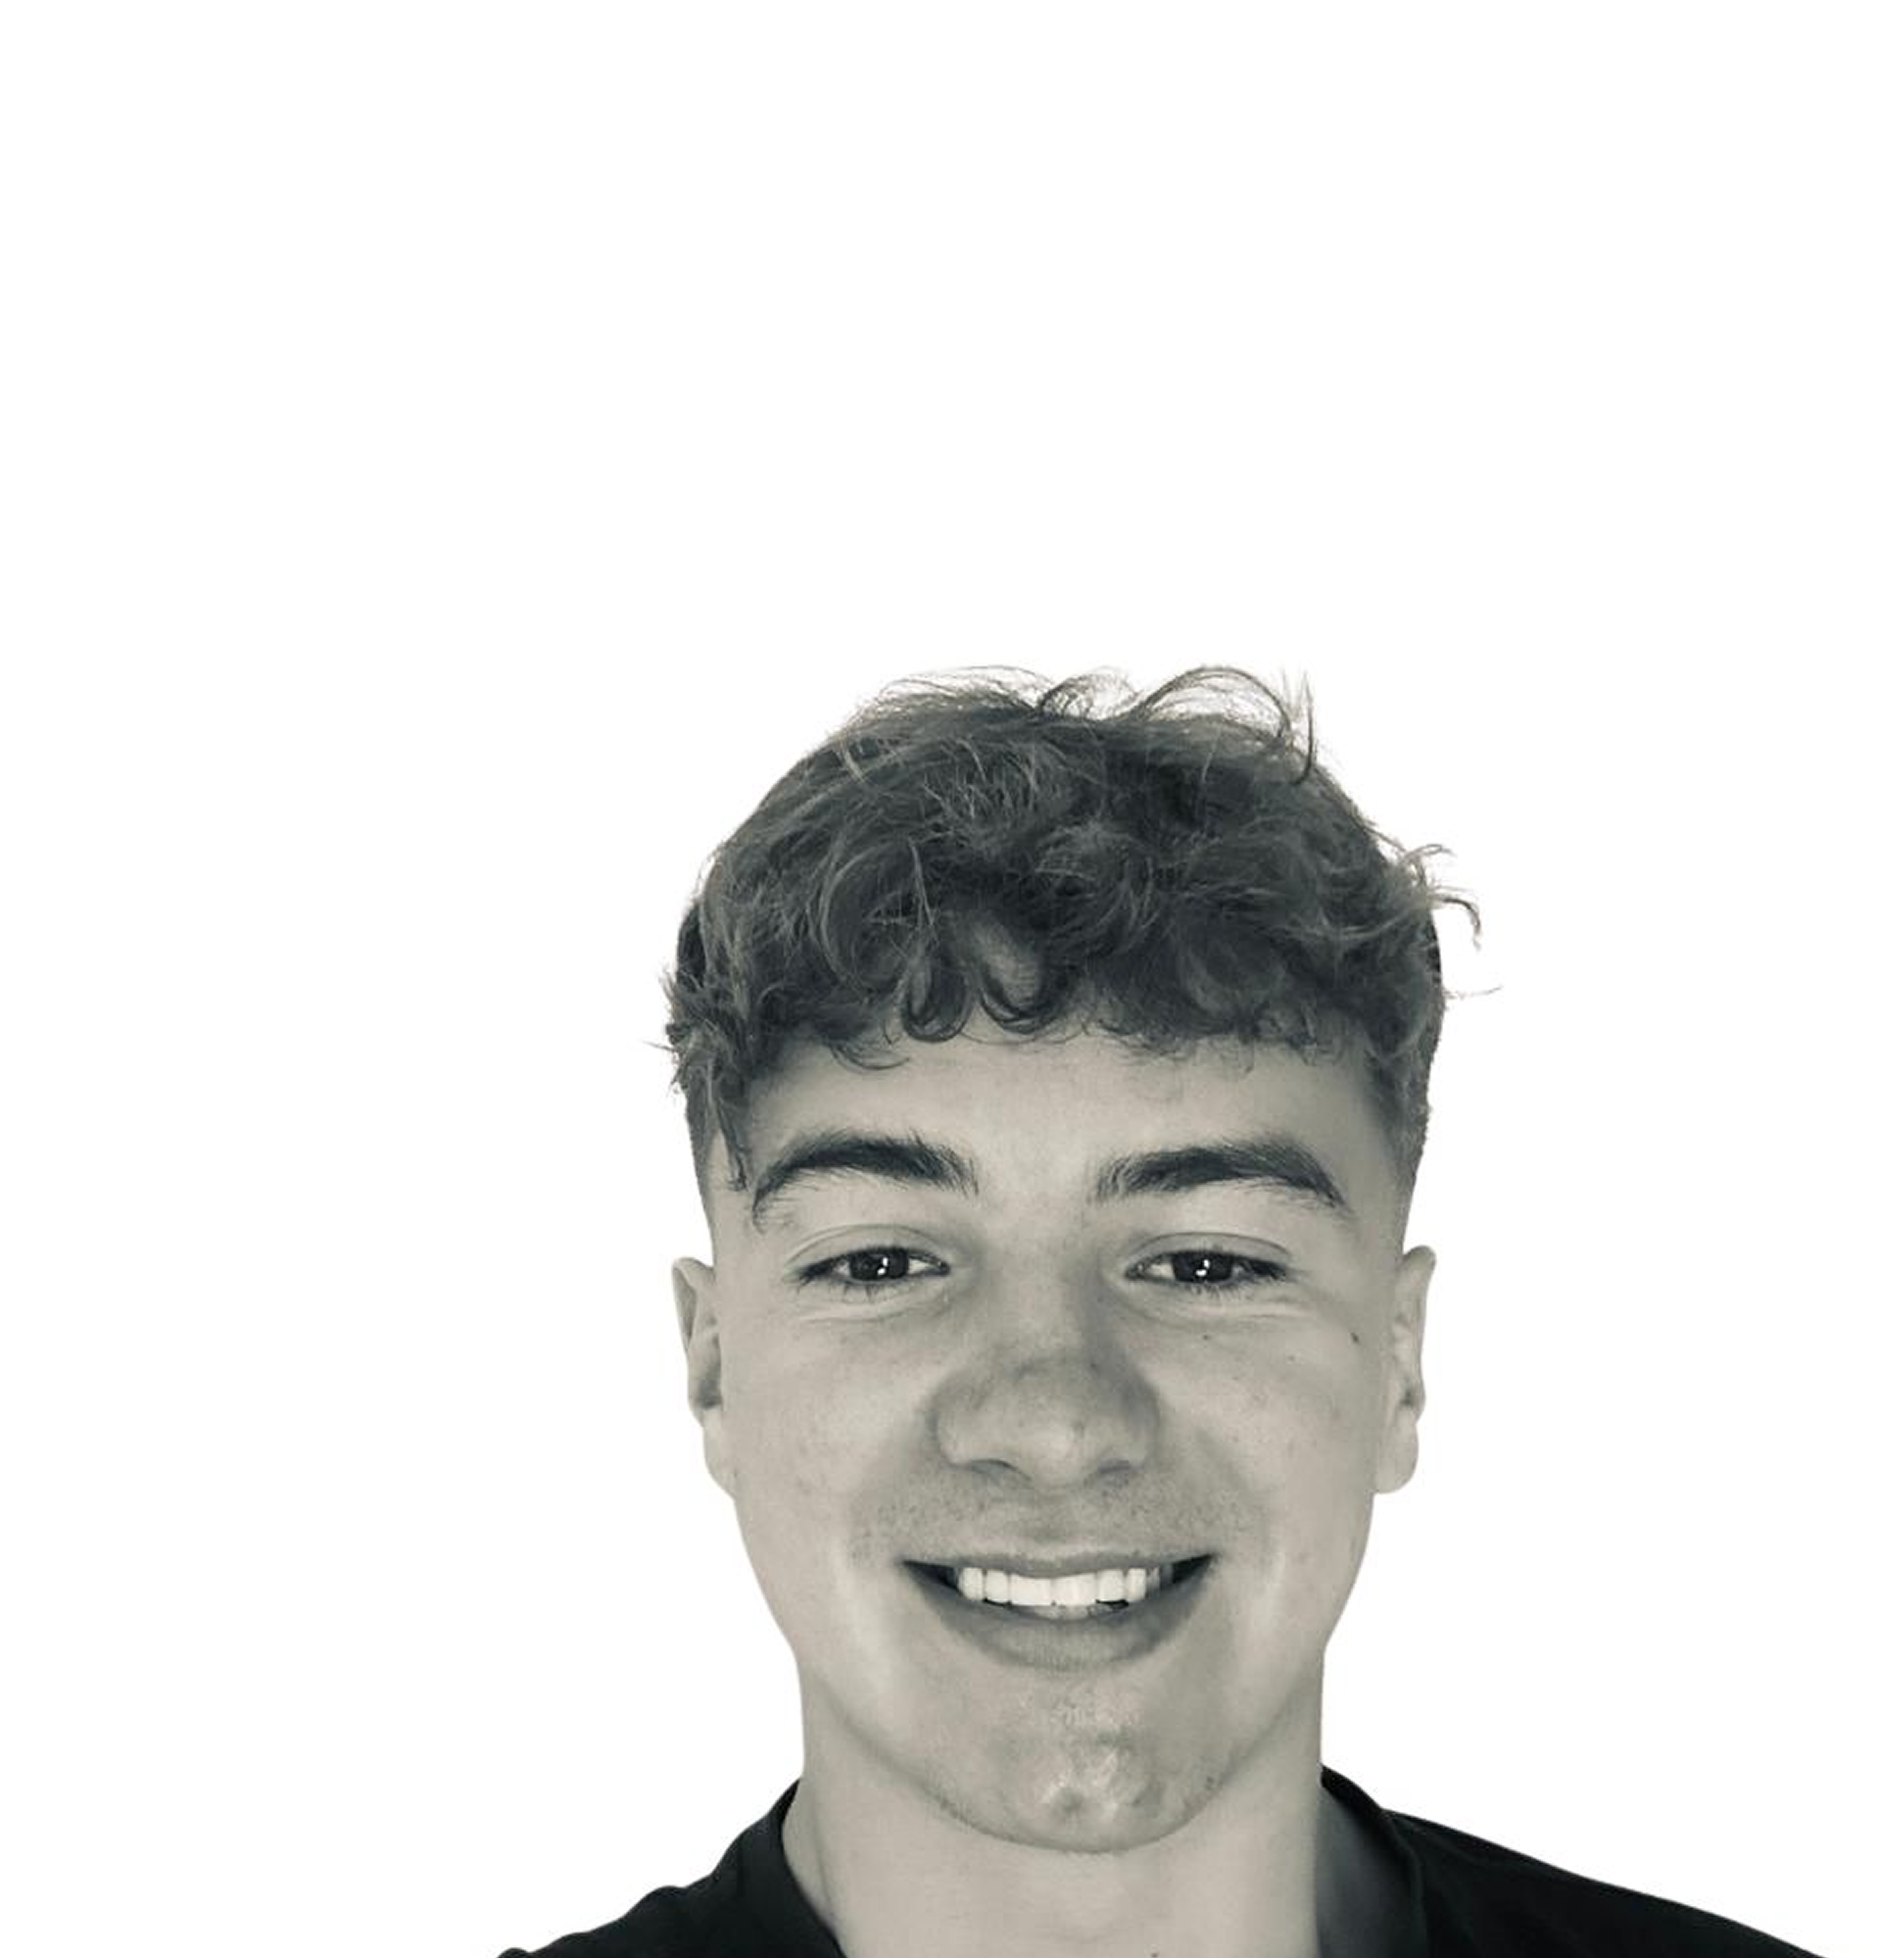
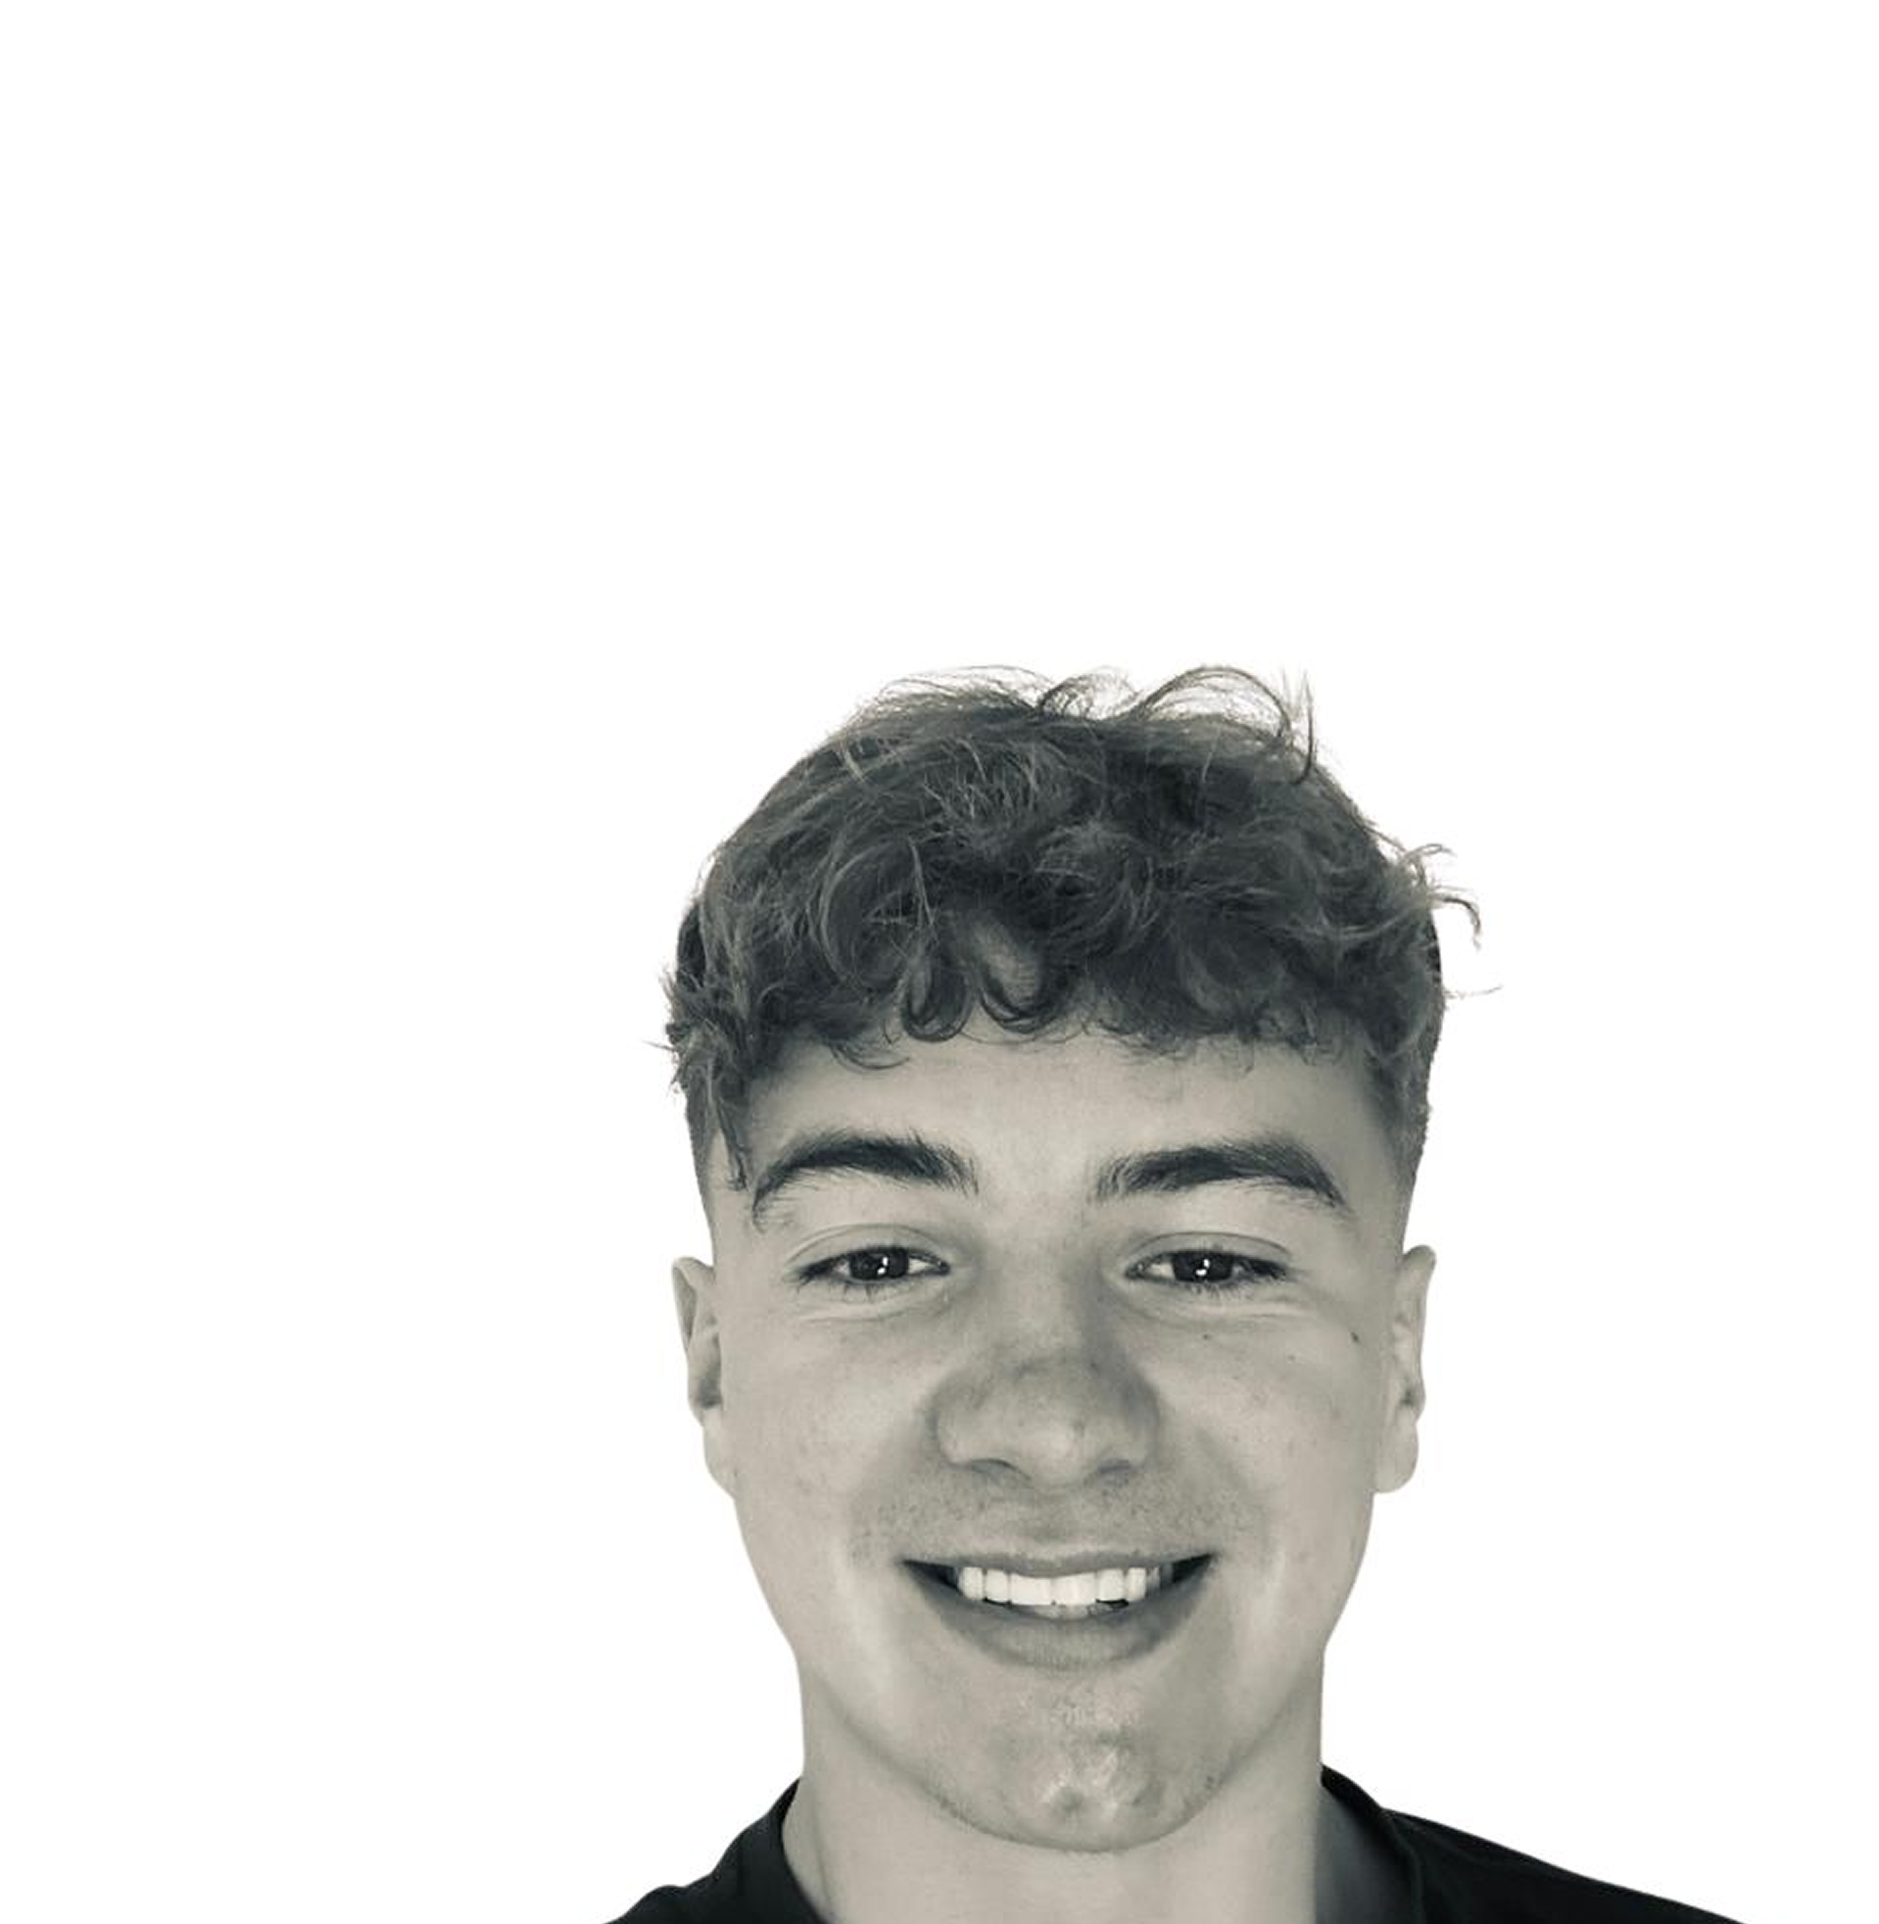
Refactor HeroSection layout and update styles

diff --git a/src/components/hero-section.tsx b/src/components/hero-section.tsx
@@ -3,16 +3,22 @@
 import React from "react";
 import { TypeAnimation } from "react-type-animation";
 import Image from "next/image";
-import { once } from "events";
+import Link from "next/link";
 
 type PopupProps = {
   modal: boolean;
   setModal: React.Dispatch<React.SetStateAction<boolean>>;
 };
 
-export default function HeroSection({ setModal, modal }: PopupProps) {
+export default function HeroSection() {
   return (
-    <div className="relative bg-white h-[100vh] grid grid-cols-2 items-center overflow-hidden px-8 md:px-16 md:max-w-[1400px] lg:max-w-[2000px] mx-auto">
+<div className="bg-white">
+
+
+
+
+   
+    <div className="relative  h-[100vh] grid grid-cols-2 items-center overflow-hidden px-8 md:px-16 md:max-w-[1400px] lg:max-w-[2000px] mx-auto">
 
 
 
@@ -23,13 +29,13 @@ export default function HeroSection({ setModal, modal }: PopupProps) {
         <span className="w-2.5 h-2.5 bg-green-400 rounded-full animate-pulse shadow-[0_0_8px_rgba(74,222,128,0.8)]"></span>
         <p>Open To Work</p>
       </div>
-    <h2 className="mt-8 text-[40px] font-bold">
+    <h2 className="mt-8 text-[50px] font-bold">
       Front-End Developer 
       <br />
       Based in South Africa
     </h2>
-<div className="mt-8">
-  <h1 className="text-9xl font-bold">
+<div className="mt-2">
+  <h1 className="text-[150px] font-bold">
     <span className="text-red">ASH</span>
     <TypeAnimation
       sequence={[
@@ -45,8 +51,9 @@ export default function HeroSection({ setModal, modal }: PopupProps) {
     />
   </h1>
 </div>
-<div className="mt-8">
-  <button className="relative flex items-center bg-red border-2 border-red text-white font-medium text-2xl group hover:bg-white p-1 rounded-full overflow-hidden">
+<div className="mt-4">
+  <Link href="#portfolio">
+    <button className="relative flex items-center bg-red border-2 border-red text-white font-medium text-2xl group hover:bg-white p-1 rounded-full overflow-hidden">
     <div className="relative z-10 bg-white rounded-full w-[50px] h-[50px] flex items-center justify-center">
       <svg xmlns="http://www.w3.org/2000/svg" fill="none" viewBox="0 0 24 24" strokeWidth={2} stroke="currentColor" className="w-8 h-8 text-red">
         <path strokeLinecap="round" strokeLinejoin="round" d="M13.5 4.5L21 12m0 0l-7.5 7.5M21 12H3" />
@@ -54,11 +61,12 @@ export default function HeroSection({ setModal, modal }: PopupProps) {
     </div>
     <p className="relative z-10 pl-3 pr-4 group-hover:text-red">View My Work</p>
   </button>
+  </Link>
+
 </div>
       </div>
 
-      {/* Profile Image positioned at bottom right - absolute positioning doesn't affect layout */}
-      <div className="absolute bottom-0 right-[-100px] pointer-events-none">
+      <div className="absolute bottom-0 right-0 pointer-events-none">
         <Image 
           src="/ashfinal.png" 
           alt="Ashley Williams" 
@@ -68,20 +76,6 @@ export default function HeroSection({ setModal, modal }: PopupProps) {
         />
       </div>
 </div>
-    // </div>
+</div>
   );
 }
-
-      {/* <TypeAnimation
-        sequence={[
-          // Same substring at the start will only be typed out once, initially
-          "Ashley",
-          1000, // wait 1s before replacing "Mice" with "Hamsters"
-          "A Frontend Developer",
-          1000,
-        ]}
-        wrapper="span"
-        speed={25}
-        repeat={1}
-        className="text-white font-bold text-[32px] md:text-[40px] lg:text-[60px] leading-tight md:leading-normal"
-      /> */}

diff --git a/src/app/page.tsx b/src/app/page.tsx
@@ -12,13 +12,16 @@ import { useState } from "react";
 export default function Home() {
   const [modal, setModal] = useState(false);
   return (
-    <div className="bg-white">
+    <div className="bg-blueGrey-light">
       <header className="w-full flex justify-center items-start ">
         <HeaderSection />
       </header>
-      <div className="h-full flex flex-col items-center ">
+      <HeroSection setModal={setModal} modal={modal} />
+      <div className="h-full flex flex-col items-center  max-w-[1400px] lg:max-w-[2000px] mx-auto">
         <main className="mx-auto px-4 md:px-0">
-          <HeroSection setModal={setModal} modal={modal} />
+          
+          
+
           <AbilitySection />
           <WorkSection />
 
